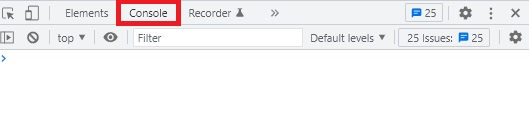
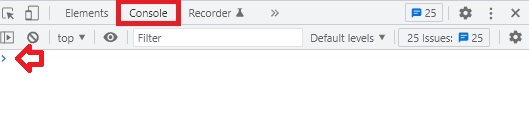
Write learn coding post

Changed region(s): [[0.0, 0.3879, 0.0907, 0.6207]]

diff --git a/source/_posts/Write-Your-First-Program-In-10-Minutes.md b/source/_posts/Write-Your-First-Program-In-10-Minutes.md
@@ -9,9 +9,9 @@ This is the question I have heard the most: I want to start learning programming
 
 <!--more-->
 
-Now you got to open the browser and press "Ctrl + Shift + J" on Windows or "Ctrl + Option + J" on Mac to open the developer console.
+So here's the first thing I want you to do: Open the browser and press "Ctrl + Shift + J" on Windows or "Ctrl + Option + J" on Mac to open the developer console.
 {% asset_img terminal.jpg %}
-See the right-angle icon on the screen? I want you to type this magic text after the icon. Don't copy! Just type it and press the enter key to see what happens: `console.log('Hello, world!');`: 
+As soon as you press these keys you must see a right-angle icon on the screen. I want you to type this magic text after the icon. Don't copy! Just type it and press the enter key to see what happens: `console.log('Hello, world!');`: 
 {% asset_img hello-world.jpg %}
 Boom! You wrote your first program. It only took you less than 10 minutes to do that, isn't it? It's as simple as doing that. In your program, the programming language you use is called "JavaScript". You use the `console` object, call its `log` function, and pass the text "Hello, world!" to it. After you hit enter, the browser executed the code you've written, printed the message "Hello, world!" on the terminal.
 
